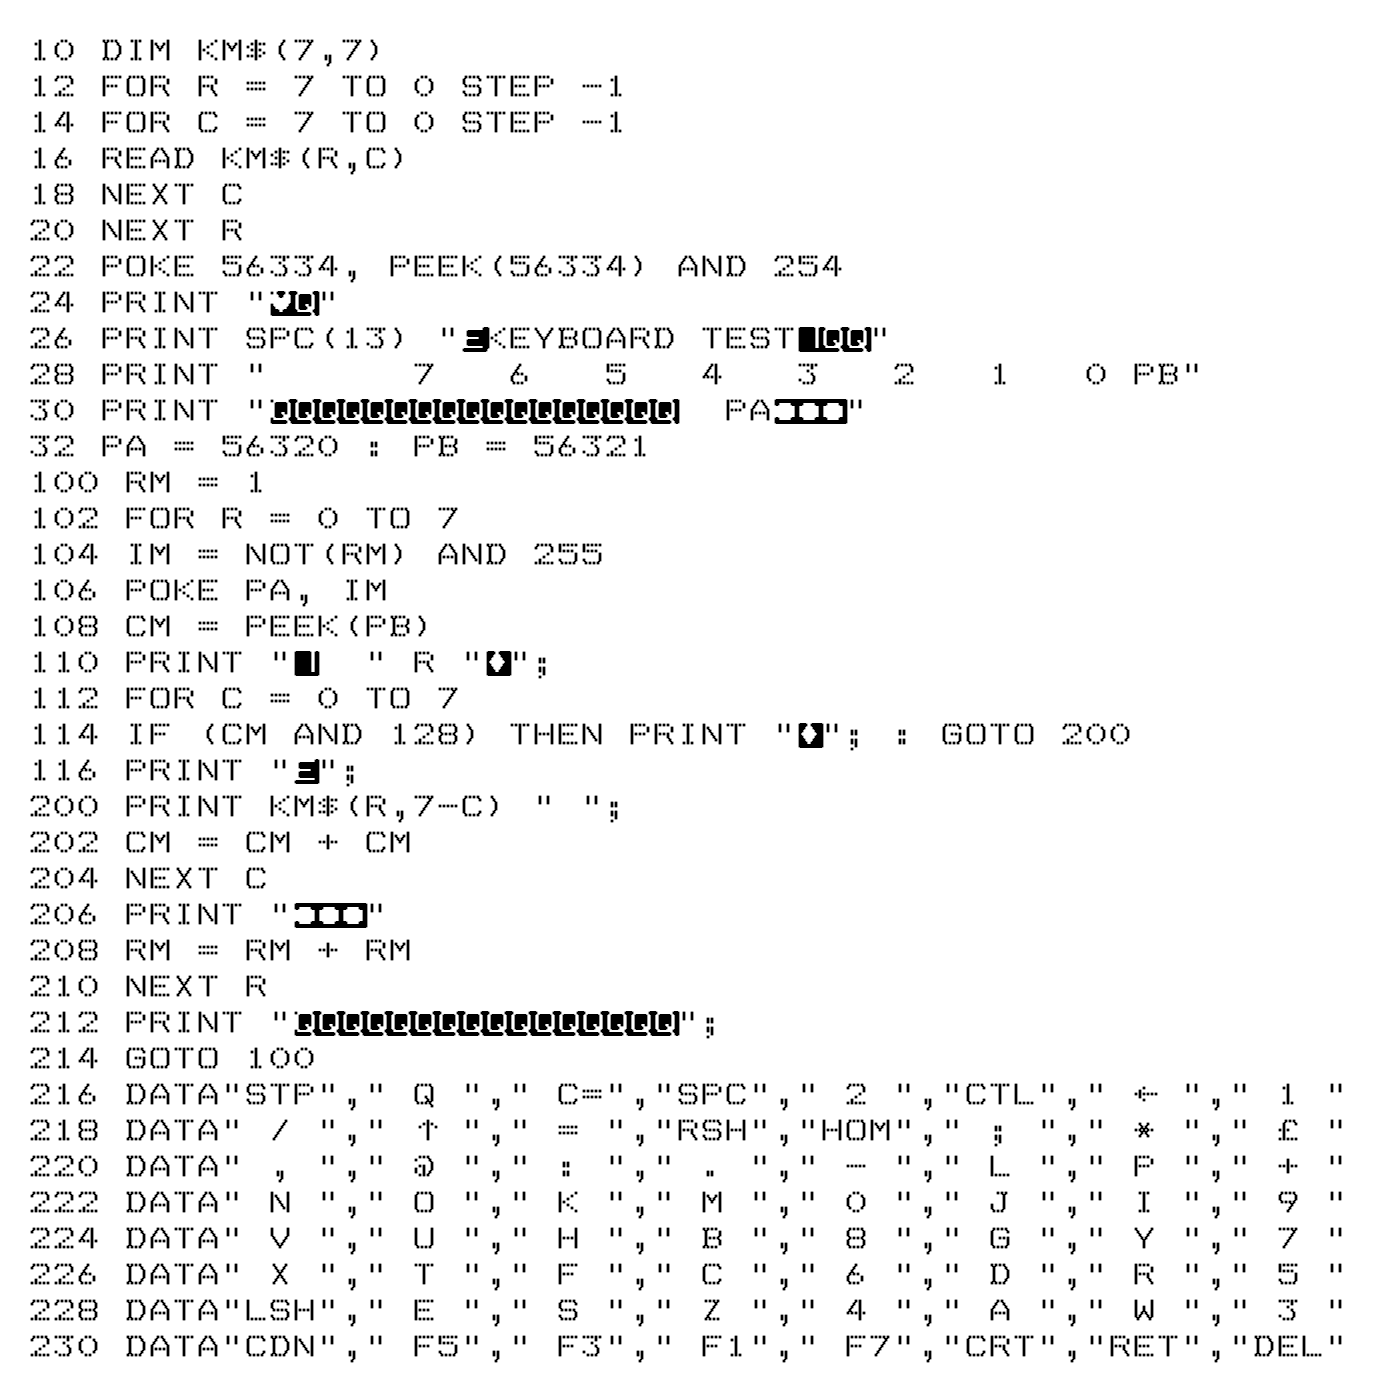
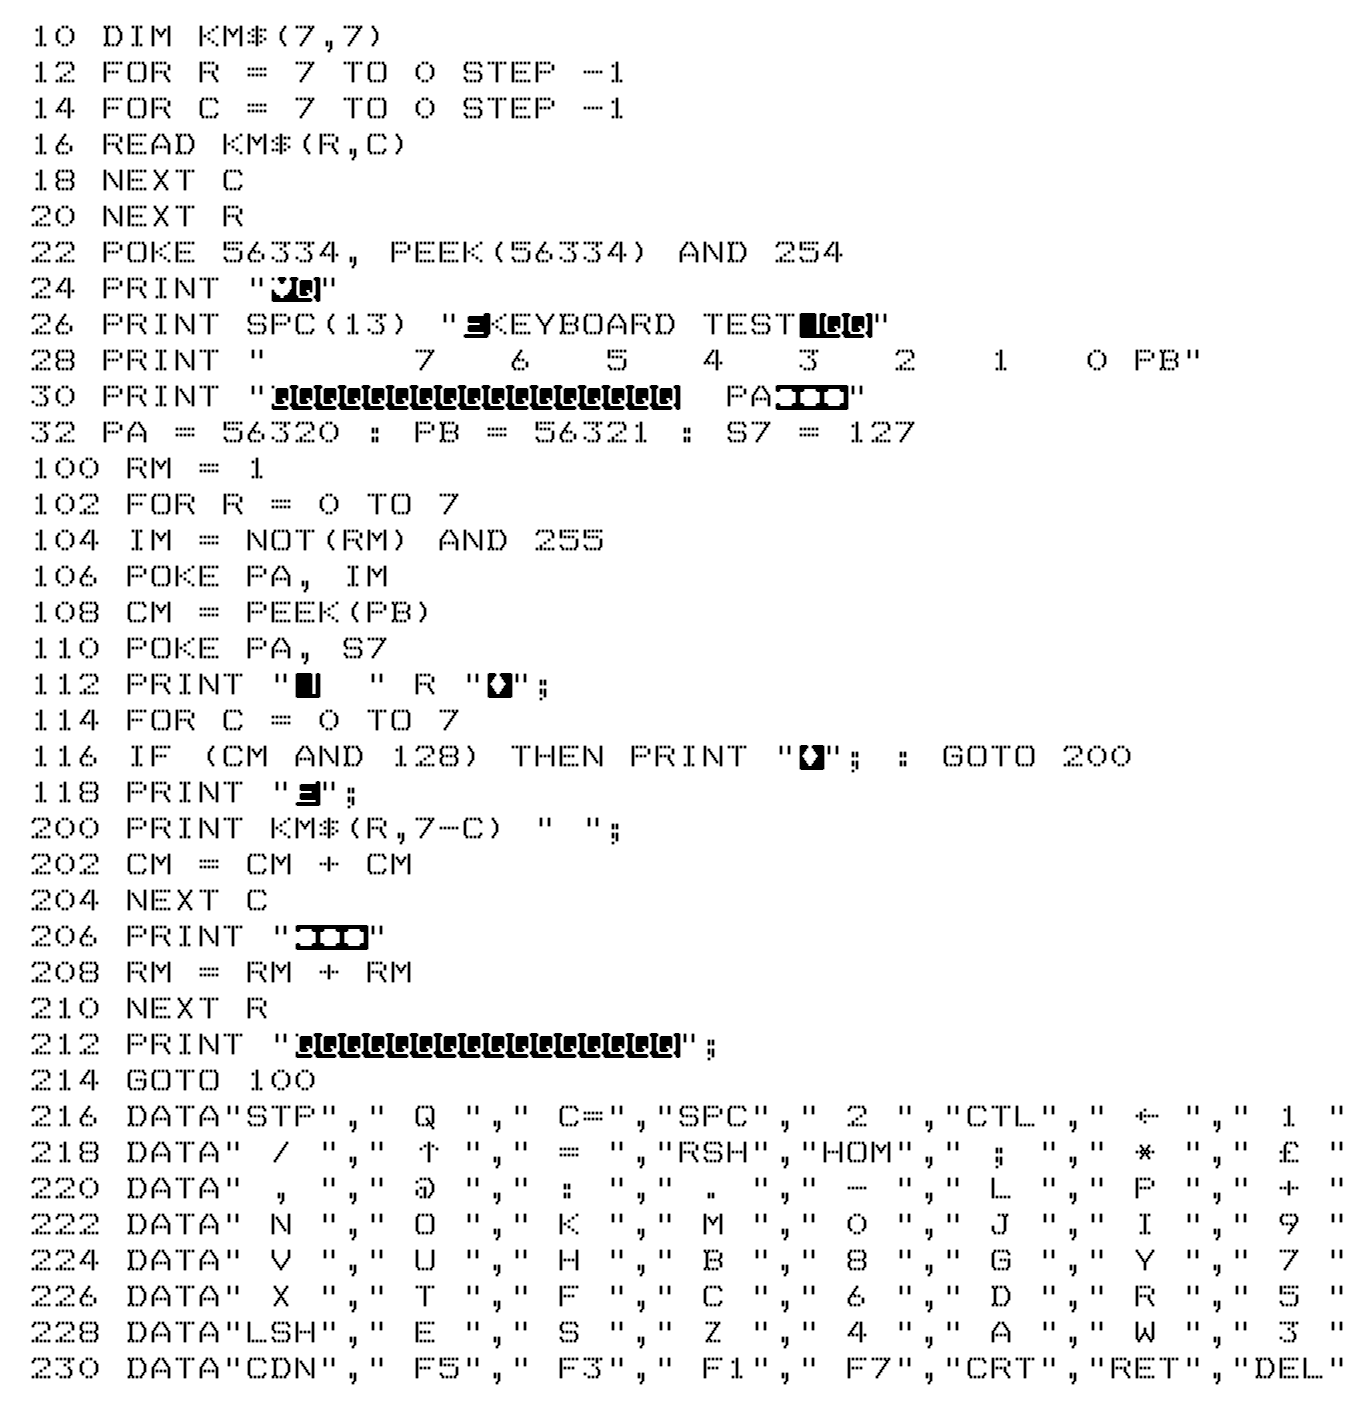
Improve the BASIC and assembly version for the STOP + RESTORE combination. Update the code listing. Add status of the RESTORE key in the assembly version. Add a screenshot of the assembly version (RESTORE key label). Update of the documentation.

diff --git a/keyboard_test/README.md b/keyboard_test/README.md
@@ -6,13 +6,26 @@ Small C64 BASIC application visualising the status of the keys in a user
 friendly manner. When one or more keys are pushed, the corresponding
 keylabel on the screen is highlighted.
 
-## Performance
+## Limitations
+
+### Performance
 
 As this is a BASIC program, the performance is rather slow. I.e. one
 iteration of the main loop, updating the status of the 64 keys takes
 about 1.7s on a PAL version of the C64. In practice, it means that
 you need to hold the keys a while before the screen reflects the
 pressed keys.
+
+### RESTORE key
+
+The state of the RESTORE key can not be checked with this application.
+The RESTORE key is a special one. It is not connected to the keyboard matrix,
+but directly to the NMI (non maskable interrupt) pin of the 6502
+processor. On top of it, only the push down event of the button triggers the 
+NMI handler. Holding the key down has no effect. Hence, it is in a BASIC
+application not straightforward to detect the key down event or the state
+of the RESTORE key.
+
 
 ## Ghost keys
 
@@ -103,19 +116,6 @@ the screen remains visually stable. I.e. no flickering or scrolling occurs.
 
   `petcat -w2 -o bin/keyboard_test.prg -f -- src/keyboard_test.bas`
 
-## Extra: Assembly version
-* **bin/keyboard_test_asm.prg**: A version of the application written in machine
-  language. Can be run directly on a C64 or emulator.
-
-Exactly the same look as the BASIC version of the application. Not the same
-feeling. This version is much faster and very responsive. It scans all the
-keys in about 3.5ms. That is more than 5 times per screen update on a PAL 
-machine. 
-
-It is also 368 bytes smaller than the bin/keyboard_test.prg.
-
-Source code (assembly compiled with cc65) is not (yet) publicly available.
-
 ## References
 
 * Inspired by: https://www.c64-wiki.com/wiki/Keyboard
@@ -123,3 +123,34 @@ Source code (assembly compiled with cc65) is not (yet) publicly available.
   The screen layout is based on the table on this webpage.
 * VICE Emulator: https://vice-emu.sourceforge.io
 
+
+# Extra:  Assembly version of C64 Keyboard Test
+
+## Description
+
+Exactly the same look as the BASIC version of the application. Not the same
+feeling. This version is much faster and very responsive. It scans all the
+keys in about 3.5ms. That is more than 5 times per screen update on a PAL 
+machine. 
+
+It is also 301 bytes smaller than the bin/keyboard_test.prg.
+
+## RESTORE key
+
+Additionally to the BASIC version,  it detects also the push down event on
+the RESTORE key, by implementing a custom NMI handler in assembly. As there
+is no way to detect the state of the key, only the key down event, the RESTORE
+label is highlighted only for about 0.13s, before it is turned back down to
+light blue, even if the key is held down.
+
+
+## Deliverables
+
+* **bin/keyboard_test_asm.prg**: A version of the application written in
+  assembly. Can be run directly on a C64 or emulator.
+* **res/keyboard_test_asm.png**: Screenshot of the application written in 
+  assembly in action.
+
+  ![Screenshot of the assembly application](res/keyboard_test_asm.png)
+
+* Source code (assembly compiled with cc65) is not (yet) publicly available.
